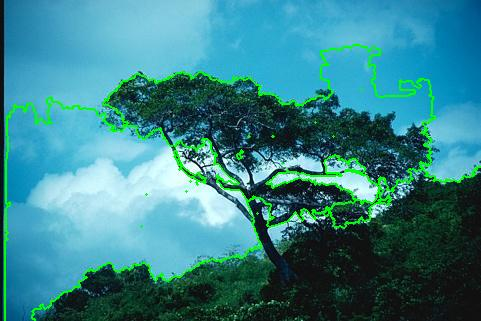
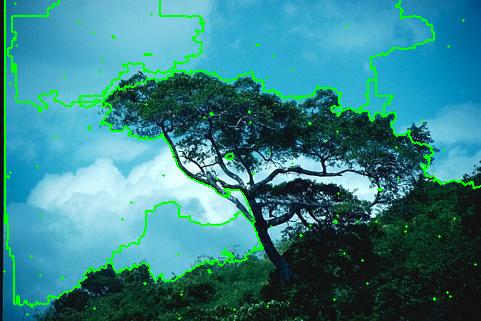
A few things

diff --git a/task2/src/MST.java b/task2/src/MST.java
@@ -12,9 +12,6 @@ class MST {
 
         final ExecutorService executorService = Executors.newFixedThreadPool(Runtime.getRuntime().availableProcessors());
 
-        //Set initial condition
-
-
         for (int i = 0; i < numSegments; i++) {
             final int index = i;
 
@@ -32,6 +29,7 @@ class MST {
 
                     pqueue.addAll(addEdges(nodes.get(current.getN1X()).get(current.getN1Y()), nodes, initedges));
                     pqueue.addAll(addEdges(nodes.get(current.getN2X()).get(current.getN2Y()), nodes, initedges));
+
                 }
             });
         }
@@ -70,15 +68,12 @@ class MST {
             if(! (nodes.get(e.getN1X()).get(e.getN1Y()).isClosed() && (nodes.get(e.getN2X()).get(e.getN2Y()).isClosed()))){
                 edgesToReturn.add(e);
 
-                Node child = nodes.get(e.getN2X()).get(e.getN2Y());
+                final Node child = nodes.get(e.getN2X()).get(e.getN2Y());
 
                 child.setParent(node);
                 child.setCost(e.getEdgeCost());
 
                 node.addChild(child);
-
-                node.setClosed(true);
-
             }
         }
 

diff --git a/task2/src/Main.java b/task2/src/Main.java
@@ -20,8 +20,8 @@ public class Main {
         /*
         Change these
          */
-        String path = "4";
-        int numSegments = 100;
+        String path = "2";
+        int numSegments = 50;
         int numPopulations = 20;
         int numIndividuals = 2;
 
@@ -52,6 +52,7 @@ public class Main {
             System.out.println("Population: " + i);
             System.out.println("Overall Deviation: " + p.getIndividuals().get(0).getOverallDeviation());
             System.out.println("Edge Value: " + p.getIndividuals().get(0).getEdgeValue());
+            System.out.println();
 
             ArrayList<ArrayList<ArrayList<Integer>>> newRoots = GA.doGA(imgArray, p, numIndividuals);
 

diff --git a/task2/src/Individual.java b/task2/src/Individual.java
@@ -11,7 +11,7 @@ public class Individual implements Comparable<Individual> {
 
     public Individual(ArrayList<Segment> segments, ArrayList<ArrayList<Node>> nodes){
         this.segments = segments;
-        this.overallDeviation = 0.4 * sumOverallDeviation(segments);
+        this.overallDeviation = 0.1 * sumOverallDeviation(segments);
         this.edgeValue = (-1) * sumEdgeValue(segments, nodes);
         this.rank = 0;
         this.crowdingDistance = 0;

diff --git a/task2/src/GA.java b/task2/src/GA.java
@@ -37,7 +37,7 @@ public class GA {
 
         for (int i = 0; i < children.size(); i++) {
             for (int j = 0; j < children.get(i).size(); j++) {
-                if(r.nextDouble() < 0.01){
+                if(r.nextDouble() < 0.8){
                     int newX = r.nextInt(imgArray[0].length);
                     int newY = r.nextInt(imgArray.length);
 

diff --git a/task2/src/Population.java b/task2/src/Population.java
@@ -76,6 +76,8 @@ public class Population {
             rankCounter++;
         }
 
+
+
         return acceptedIndividuals;
     }
 
